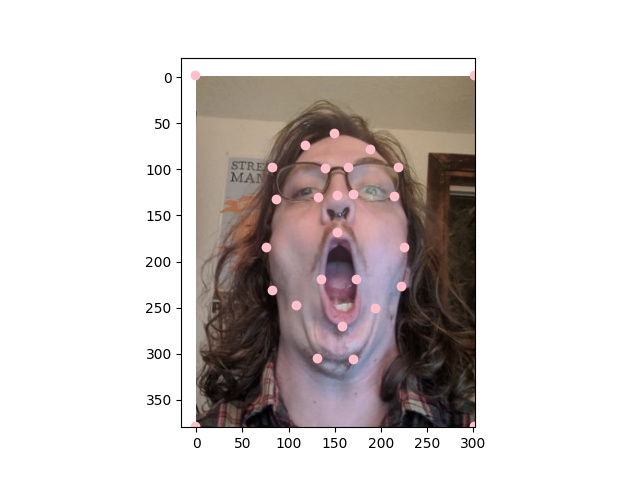
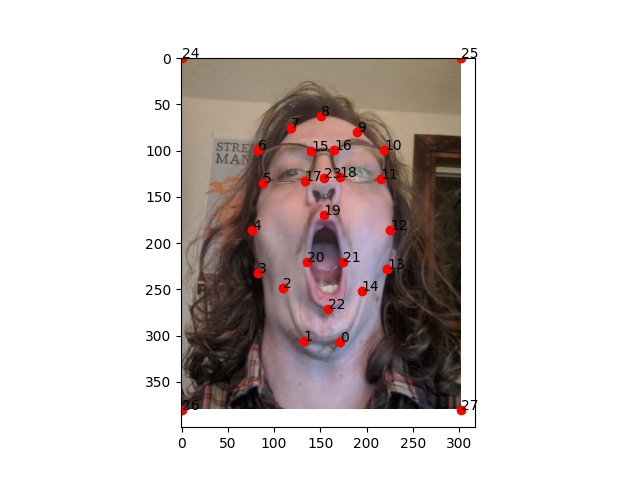
Display the Average Fan's points

Changed region(s): [[0.2188, 0.0938, 0.75, 0.9375]]

diff --git a/index.html b/index.html
@@ -212,7 +212,7 @@
             &
 
             <div class="cell">
-                <img src="img/fan.png" alt="">
+                <img src="img/fanpoints.png" alt="">
                 <p>the Average Fan with input points</p>
                 <br>
             </div>

diff --git a/main.py b/main.py
@@ -506,6 +506,7 @@ def select_nick_gigachad_points():
 
 #select_nick_gigachad_points()
 #display_points("gigachad", "nick")
+display_points("brandon_fan", "fan")
 
 def test_serialization():
     selected = select_points(chad, 8, "gigachad")
